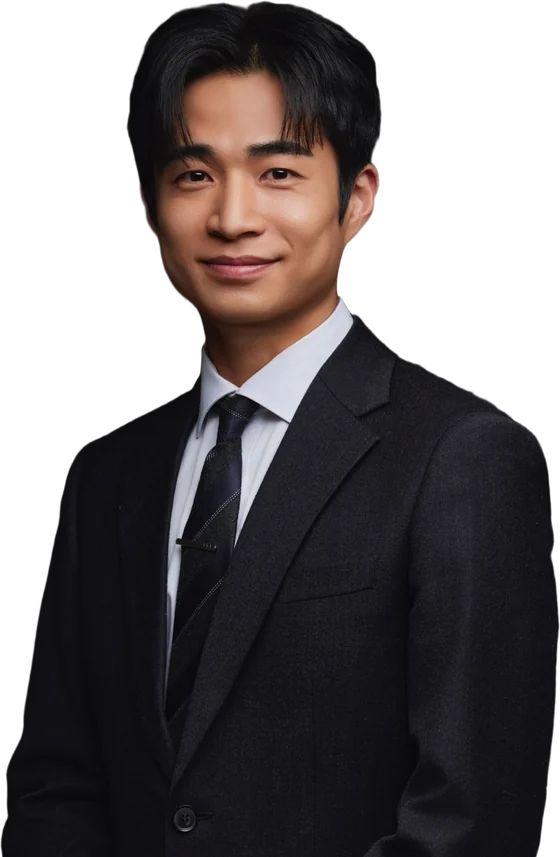
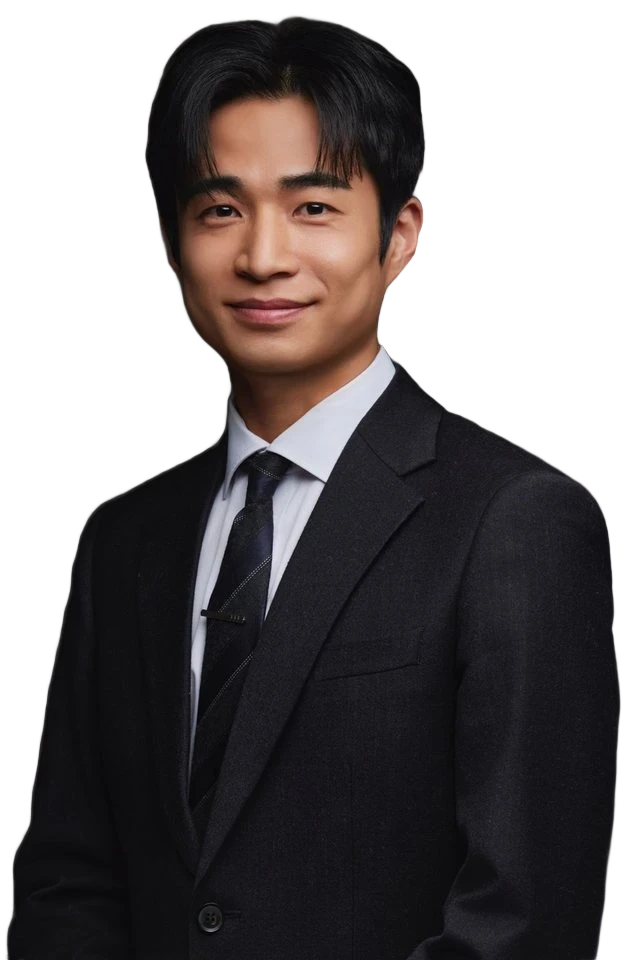
사무소 소개: 프로필 흰 배경·머리 잘림 없는 누끼, 인사말 문체 정리 · 사이트 전체 작은 글씨 키움
Claude-Session: https://claude.ai/code/session_0136QBGbPzZZJ4SmNmdtKpe7

diff --git a/about/index.html b/about/index.html
@@ -34,14 +34,14 @@
 <div class="wrap about-page" style="padding-top:36px">
 <p class="crumb"><a href="/">홈</a> › 사무소 소개</p>
 <section class="ab-hero">
-<div class="ab-photo"><img src="/assets/profile-cut.webp" alt="김태형 세무사" width="560" height="857"></div>
+<div class="ab-photo"><img src="/assets/profile-cut.webp" alt="김태형 세무사" width="640" height="960"></div>
 <div class="ab-text">
 <p class="ab-eyebrow">세무회계택 대표 세무사</p>
 <h1>김태형 <span>세무사</span></h1>
 <p class="ab-motto">근거는 정확하게, 마음은 편안하게</p>
 <div class="ab-greet">
-<p>세무회계택은 동대문구 청량리에서 개인·법인 사업자의 기장과 신고, 양도·상속·증여 같은 재산 세금을 맡고 있습니다.</p>
-<p>같은 질문이라도 사람마다 답이 달라지는 것이 세금입니다. 조문과 자료로 근거를 먼저 확인하고, 그 결과를 알기 쉬운 말로 설명드리겠습니다.</p>
+<p>세무회계택은 동대문구 청량리에서 개인·법인 사업자의 기장과 세금 신고, 양도·상속·증여 등 재산 관련 세무 업무를 수행하고 있습니다.</p>
+<p>세금은 같은 사안이라도 사실관계에 따라 결론이 달라집니다. 관련 법령과 자료를 근거로 먼저 검토하고, 그 결과를 명확하게 설명드립니다.</p>
 </div>
 <dl class="ab-cv">
 <dt>학력</dt><dd>고려대학교 공과대학 졸업</dd>

diff --git a/style.css b/style.css
@@ -573,3 +573,21 @@ a.card.svc b{color:var(--green)}
 .ch .s{color:var(--sub);font-size:15px;line-height:1.7}
 .ch .go{font-family:var(--sans);font-size:14px;color:var(--green);margin-top:4px}
 @media (max-width:640px){.ch-grid{grid-template-columns:1fr}}
+
+/* v22: 작은 회색 글씨 가독성 — 사이트 전체 */
+.crumb,.about-page .crumb{font-size:15px;color:#555c57}
+.crumb a{color:#555c57}
+.meta{font-size:15px;color:#555c57}
+.qcard .qm{font-size:14px}
+.qcard .d{color:#6b736d}
+.lf-foot,.lf-pp,.lf-agree details{font-size:14.5px}
+.fee-sec small,.fee-disc small{font-size:14.5px}
+.ab-eyebrow{font-size:15px}
+.ch .k{font-size:14px}
+.blog-band .k,.blog-card .k{font-size:13.5px}
+.svc-others{font-size:15px}
+.note{font-size:15px}
+/* v23: 소개 프로필 흰 배경 */
+.ab-photo{background:#fff;border-radius:0;height:420px;padding-top:16px;border-bottom:1px solid var(--line)}
+.ab-photo img{height:100%}
+@media (max-width:760px){.ab-photo{height:340px;max-width:none}}

diff --git a/build.py b/build.py
@@ -346,14 +346,14 @@ def build_about():
     body = f'''<div class="wrap about-page" style="padding-top:36px">
 <p class="crumb"><a href="/">홈</a> › 사무소 소개</p>
 <section class="ab-hero">
-<div class="ab-photo"><img src="/assets/profile-cut.webp" alt="{PERSON}" width="560" height="857"></div>
+<div class="ab-photo"><img src="/assets/profile-cut.webp" alt="{PERSON}" width="640" height="960"></div>
 <div class="ab-text">
 <p class="ab-eyebrow">{NAME} 대표 세무사</p>
 <h1>김태형 <span>세무사</span></h1>
 <p class="ab-motto">근거는 정확하게, 마음은 편안하게</p>
 <div class="ab-greet">
-<p>세무회계택은 동대문구 청량리에서 개인·법인 사업자의 기장과 신고, 양도·상속·증여 같은 재산 세금을 맡고 있습니다.</p>
-<p>같은 질문이라도 사람마다 답이 달라지는 것이 세금입니다. 조문과 자료로 근거를 먼저 확인하고, 그 결과를 알기 쉬운 말로 설명드리겠습니다.</p>
+<p>세무회계택은 동대문구 청량리에서 개인·법인 사업자의 기장과 세금 신고, 양도·상속·증여 등 재산 관련 세무 업무를 수행하고 있습니다.</p>
+<p>세금은 같은 사안이라도 사실관계에 따라 결론이 달라집니다. 관련 법령과 자료를 근거로 먼저 검토하고, 그 결과를 명확하게 설명드립니다.</p>
 </div>
 <dl class="ab-cv">
 <dt>학력</dt><dd>고려대학교 공과대학 졸업</dd>
